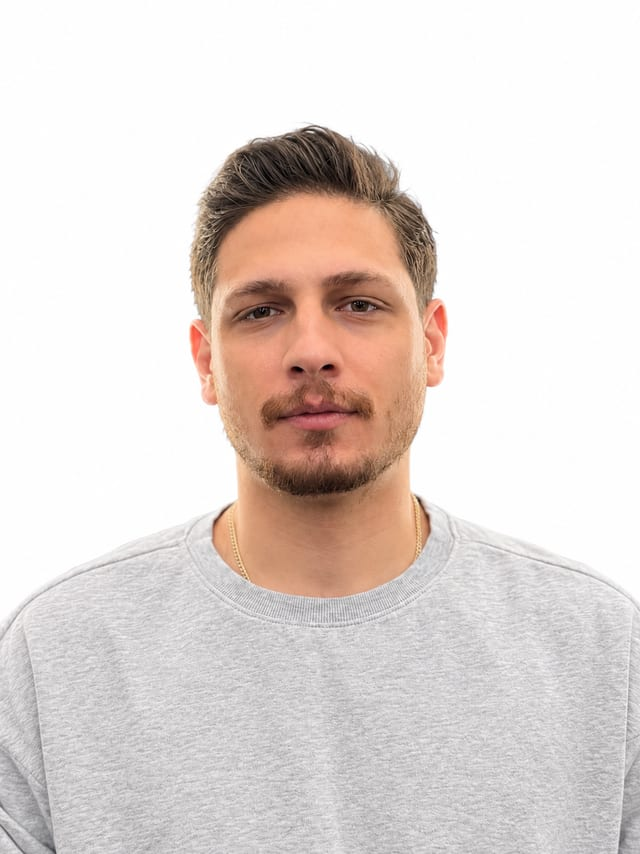
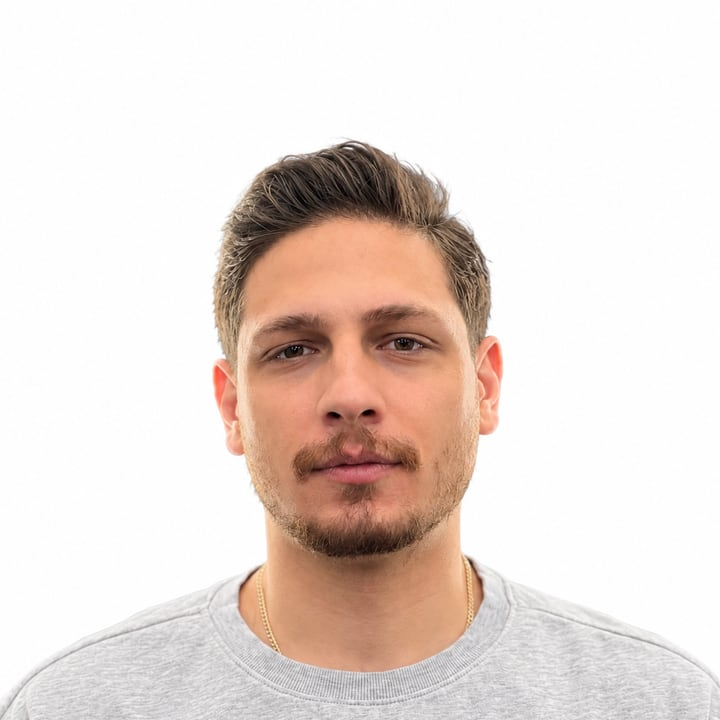
fix: correct GitHub Pages asset URLs and studio UX bugs
- Prefix all public/ image src values (team photos, company logos)
  with NEXT_PUBLIC_BASE_PATH so they resolve under the /danvar
  subpath on the GitHub Pages export instead of 404ing.
- Fix the chapter progress indicator: the active chapter's dash now
  fills when not auto-playing, so the final chapter shows as active
  instead of permanently empty.
- Add wheel-driven chapter navigation on desktop, ignoring scroll
  inside dialogs, the tool panel and text inputs.
- Make the blue "mist" palette the default for first-time visitors
  (CSS root fallback, pre-paint bootstrap script, and the appearance
  hook), while keeping the per-session "fresh look" variation for
  returning visitors.
- Re-crop team portraits to a consistent square, attention-weighted
  frame so every face reads at a similar scale.

diff --git a/components/Studio.tsx b/components/Studio.tsx
@@ -2,6 +2,7 @@
 import { useEffect, useRef, useState } from 'react';
 import Image from 'next/image';
 import { useStory, chapterIds as ids } from '@/lib/use-story';
+import { assetPath } from '@/lib/asset-path';
 import { useAppearance } from '@/lib/use-appearance';
 import { companies, copy, Locale, stacks, team } from '@/content/studio';
 import palettes from '@/content/nude-palettes.json';
@@ -48,6 +49,32 @@ export default function Studio({ locale }: { locale: Locale }) {
   useEffect(() => {
     if (detail) profile.current?.showModal();
   }, [detail]);
+  const wheelState = useRef({ step, go });
+  useEffect(() => {
+    wheelState.current = { step, go };
+  });
+  useEffect(() => {
+    const desktop = matchMedia('(min-width: 1000px)');
+    let locked = false;
+    function onWheel(event: WheelEvent) {
+      if (!desktop.matches || locked) return;
+      if (settings.current?.open || profile.current?.open) return;
+      const target = event.target as HTMLElement;
+      if (target.closest('textarea, input, .tool-panel, dialog')) return;
+      if (Math.abs(event.deltaY) < 12) return;
+      const { step: current, go: navigate } = wheelState.current;
+      const next = event.deltaY > 0 ? current + 1 : current - 1;
+      if (next < 0 || next > 4) return;
+      event.preventDefault();
+      locked = true;
+      navigate(next);
+      setTimeout(() => {
+        locked = false;
+      }, 700);
+    }
+    window.addEventListener('wheel', onWheel, { passive: false });
+    return () => window.removeEventListener('wheel', onWheel);
+  }, []);
   function download() {
     const blob = new Blob([`Danvar — Project brief\n\n${need}\n\n${brief}`], {
       type: 'text/plain;charset=utf-8',
@@ -181,7 +208,7 @@ export default function Studio({ locale }: { locale: Locale }) {
                   <div className="portrait">
                     {p.photo ? (
                       <Image
-                        src={p.photo}
+                        src={assetPath(p.photo)}
                         alt={locale === 'en' ? p.name : p.fa}
                         fill
                         sizes="(max-width: 640px) 45vw, 20vw"
@@ -218,7 +245,7 @@ export default function Studio({ locale }: { locale: Locale }) {
                 >
                   {co.logo ? (
                     <Image
-                      src={co.logo}
+                      src={assetPath(co.logo)}
                       alt={locale === 'en' ? co.name : co.fa}
                       width={85}
                       height={52}
@@ -298,9 +325,14 @@ export default function Studio({ locale }: { locale: Locale }) {
                   setSaved(false);
                 }}
               />
-              <button className="primary" onClick={download} disabled={!brief.trim()}>
-                {c.download} ↗
-              </button>
+              <div className="actions">
+                <button className="primary" onClick={download} disabled={!brief.trim()}>
+                  {c.download} ↗
+                </button>
+                <a className="text-button" href="mailto:aminazarpey@gmail.com">
+                  {c.emailUs} ↗
+                </a>
+              </div>
               <p className="small" role="status">
                 {saved ? c.downloaded : ' '}
               </p>
@@ -316,7 +348,9 @@ export default function Studio({ locale }: { locale: Locale }) {
           <div className="progress-tracks" aria-hidden="true" ref={progress}>
             {ids.map((id, i) => (
               <span key={id}>
-                <i style={{ transform: `scaleX(${i < step ? 1 : 0})` }} />
+                <i
+                  style={{ transform: `scaleX(${i < step || (i === step && !playing) ? 1 : 0})` }}
+                />
               </span>
             ))}
           </div>

diff --git a/app/[locale]/layout.tsx b/app/[locale]/layout.tsx
@@ -21,7 +21,7 @@ export const metadata: Metadata = {
   robots: { index: false, follow: false },
 };
 
-const init = `(()=>{const palettes=${JSON.stringify(palettes.palettes)};let saved=null,id='almond',mode='system';try{saved=JSON.parse(localStorage.getItem('danvar-look')||'null');id=saved?.palette||sessionStorage.getItem('danvar-palette');mode=saved?.mode||'system';if(!palettes.some(p=>p.id===id)){const last=localStorage.getItem('danvar-last');const pool=palettes.filter(p=>p.id!==last);id=pool[Math.floor(Math.random()*pool.length)].id;sessionStorage.setItem('danvar-palette',id);localStorage.setItem('danvar-last',id)}}catch{}const theme=mode==='system'?(matchMedia('(prefers-color-scheme: dark)').matches?'dark':'light'):mode;const p=palettes.find(p=>p.id===id)||palettes[0];const root=document.documentElement;root.dataset.palette=p.id;root.dataset.mode=mode;root.dataset.theme=theme;for(const [k,v]of Object.entries(p[theme]||p.light))root.style.setProperty('--'+k,v);root.style.colorScheme=theme})()`;
+const init = `(()=>{const palettes=${JSON.stringify(palettes.palettes)};let saved=null,id='mist',mode='system';try{saved=JSON.parse(localStorage.getItem('danvar-look')||'null');id=saved?.palette||sessionStorage.getItem('danvar-palette');mode=saved?.mode||'system';if(!palettes.some(p=>p.id===id)){const last=localStorage.getItem('danvar-last');if(last){const pool=palettes.filter(p=>p.id!==last);id=pool[Math.floor(Math.random()*pool.length)].id}else{id='mist'}sessionStorage.setItem('danvar-palette',id);localStorage.setItem('danvar-last',id)}}catch{}const theme=mode==='system'?(matchMedia('(prefers-color-scheme: dark)').matches?'dark':'light'):mode;const p=palettes.find(p=>p.id===id)||palettes[0];const root=document.documentElement;root.dataset.palette=p.id;root.dataset.mode=mode;root.dataset.theme=theme;for(const [k,v]of Object.entries(p[theme]||p.light))root.style.setProperty('--'+k,v);root.style.colorScheme=theme})()`;
 
 export default async function Layout({
   children,

diff --git a/lib/use-appearance.ts b/lib/use-appearance.ts
@@ -3,7 +3,7 @@ import { useEffect, useSyncExternalStore } from 'react';
 import palettes from '@/content/nude-palettes.json';
 
 type Appearance = { palette: string; mode: string; pinned: boolean };
-const fallback: Appearance = { palette: 'almond', mode: 'system', pinned: false };
+const fallback: Appearance = { palette: 'mist', mode: 'system', pinned: false };
 let snapshot = fallback;
 const listeners = new Set<() => void>();
 function subscribe(listener: () => void) {
@@ -17,7 +17,7 @@ function subscribe(listener: () => void) {
       /* Optional storage. */
     }
     snapshot = {
-      palette: root.dataset.palette || 'almond',
+      palette: root.dataset.palette || 'mist',
       mode: root.dataset.mode || 'system',
       pinned,
     };
@@ -40,7 +40,9 @@ export function useAppearance() {
       const theme =
         appearance.mode === 'system' ? (media.matches ? 'dark' : 'light') : appearance.mode;
       const palette =
-        palettes.palettes.find((p) => p.id === appearance.palette) || palettes.palettes[0];
+        palettes.palettes.find((p) => p.id === appearance.palette) ||
+        palettes.palettes.find((p) => p.id === 'mist') ||
+        palettes.palettes[0];
       const root = document.documentElement;
       root.dataset.theme = theme;
       root.dataset.mode = appearance.mode;

diff --git a/app/styles.css b/app/styles.css
@@ -1,10 +1,10 @@
 :root {
-  --background: #f5f1eb;
-  --surface: #fffdf9;
-  --text: #292723;
-  --muted: #645d54;
-  --primary: #d5bca4;
-  --onPrimary: #292723;
+  --background: #f0f3f5;
+  --surface: #f8fbfc;
+  --text: #242c32;
+  --muted: #526371;
+  --primary: #adc2cf;
+  --onPrimary: #242c32;
 }
 * {
   box-sizing: border-box;
@@ -343,16 +343,12 @@ h1 em {
 }
 .portrait-photo {
   object-fit: cover;
-  object-position: top center;
-  filter: grayscale(0.15);
-  transition:
-    transform 0.5s ease,
-    filter 0.5s ease;
+  object-position: center;
+  transition: transform 0.5s ease;
 }
 .person:hover .portrait-photo,
 .person:focus-visible .portrait-photo {
   transform: scale(1.04);
-  filter: grayscale(0);
 }
 .person-number {
   position: absolute;

diff --git a/next.config.ts b/next.config.ts
@@ -2,15 +2,17 @@ import type { NextConfig } from 'next';
 
 const isGithubPagesBuild = process.env.GITHUB_PAGES === 'true';
 const repoName = 'danvar';
+const basePath = isGithubPagesBuild ? `/${repoName}` : '';
 
 const config: NextConfig = {
   poweredByHeader: false,
   devIndicators: false,
+  env: { NEXT_PUBLIC_BASE_PATH: basePath },
   ...(isGithubPagesBuild
     ? {
         output: 'export',
-        basePath: `/${repoName}`,
-        assetPrefix: `/${repoName}/`,
+        basePath,
+        assetPrefix: `${basePath}/`,
         images: { unoptimized: true },
       }
     : {}),

diff --git a/lib/asset-path.ts b/lib/asset-path.ts
@@ -1,0 +1,6 @@
+const basePath = process.env.NEXT_PUBLIC_BASE_PATH || '';
+
+/** next/image does not prefix string src values with basePath; do it explicitly. */
+export function assetPath(path: string) {
+  return basePath + path;
+}
